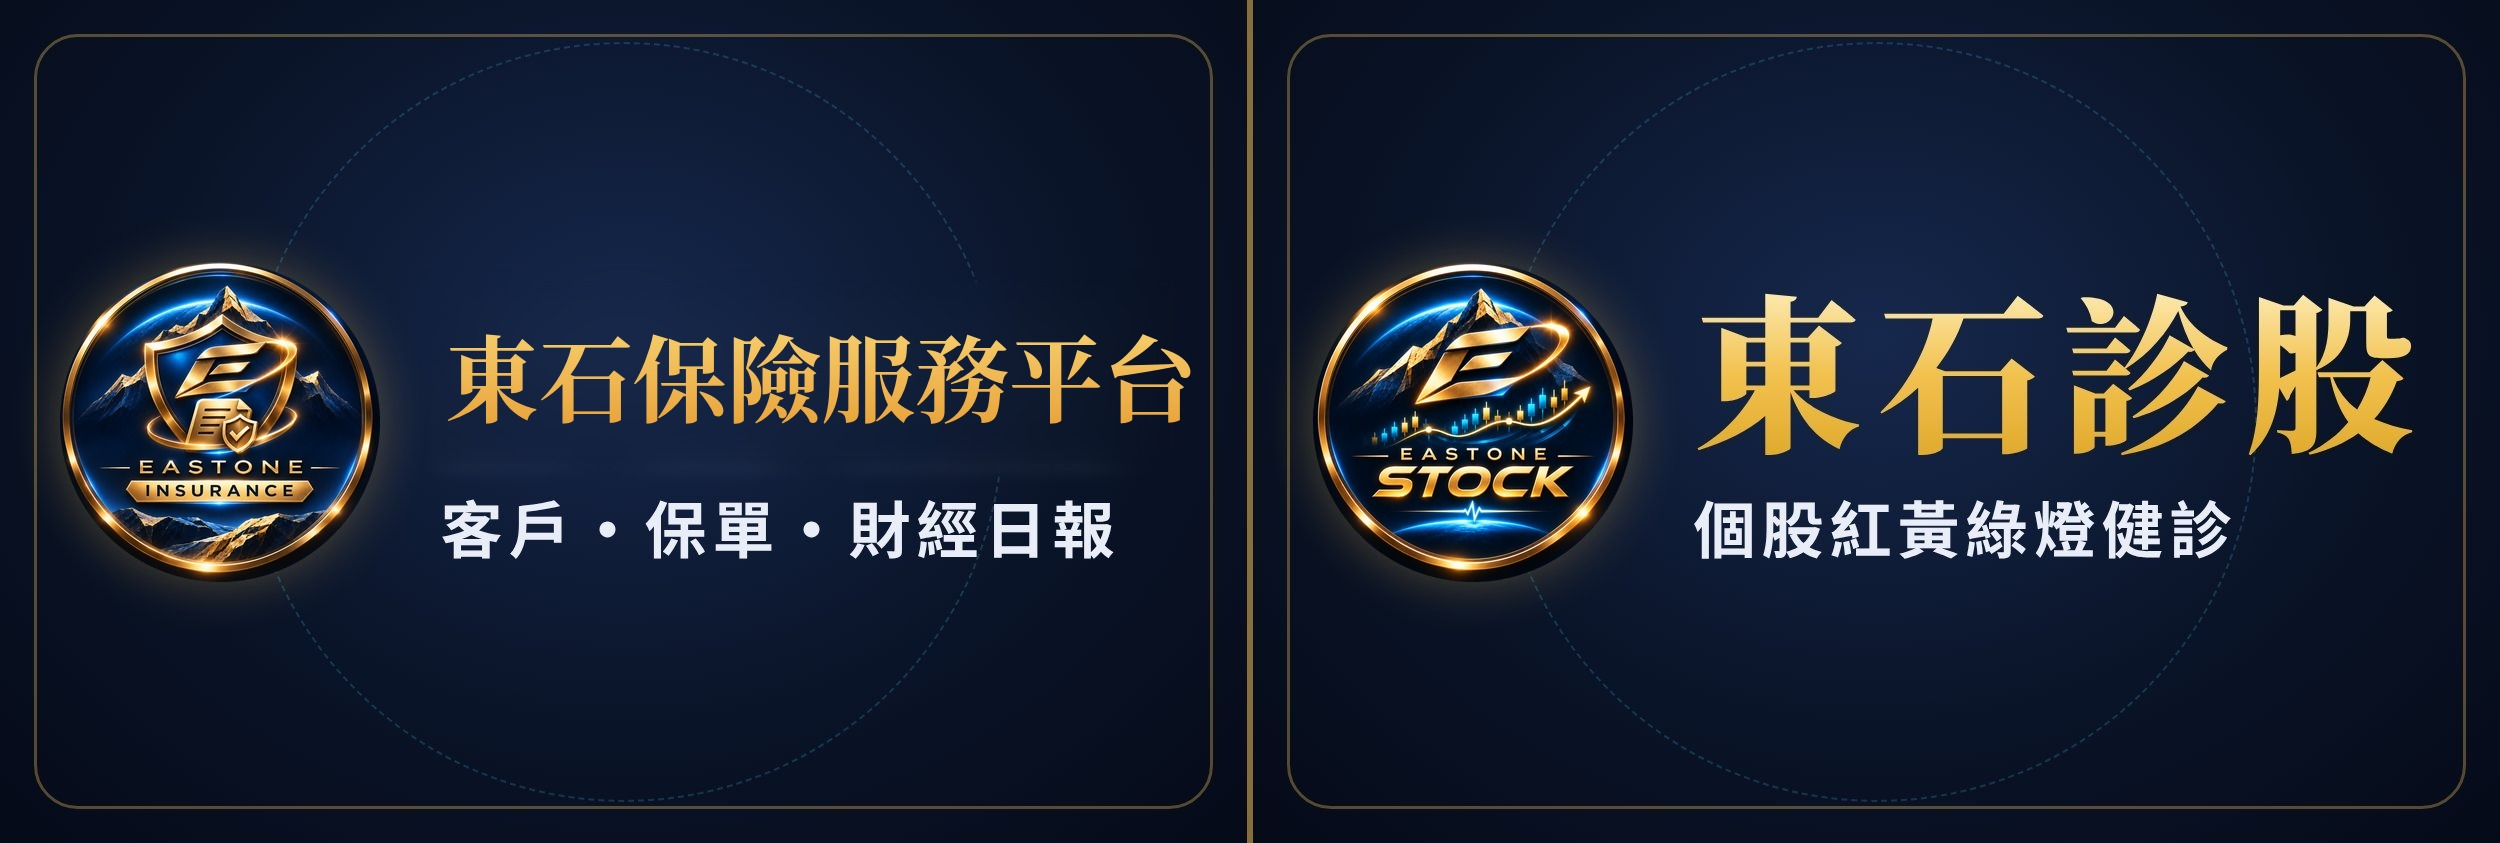
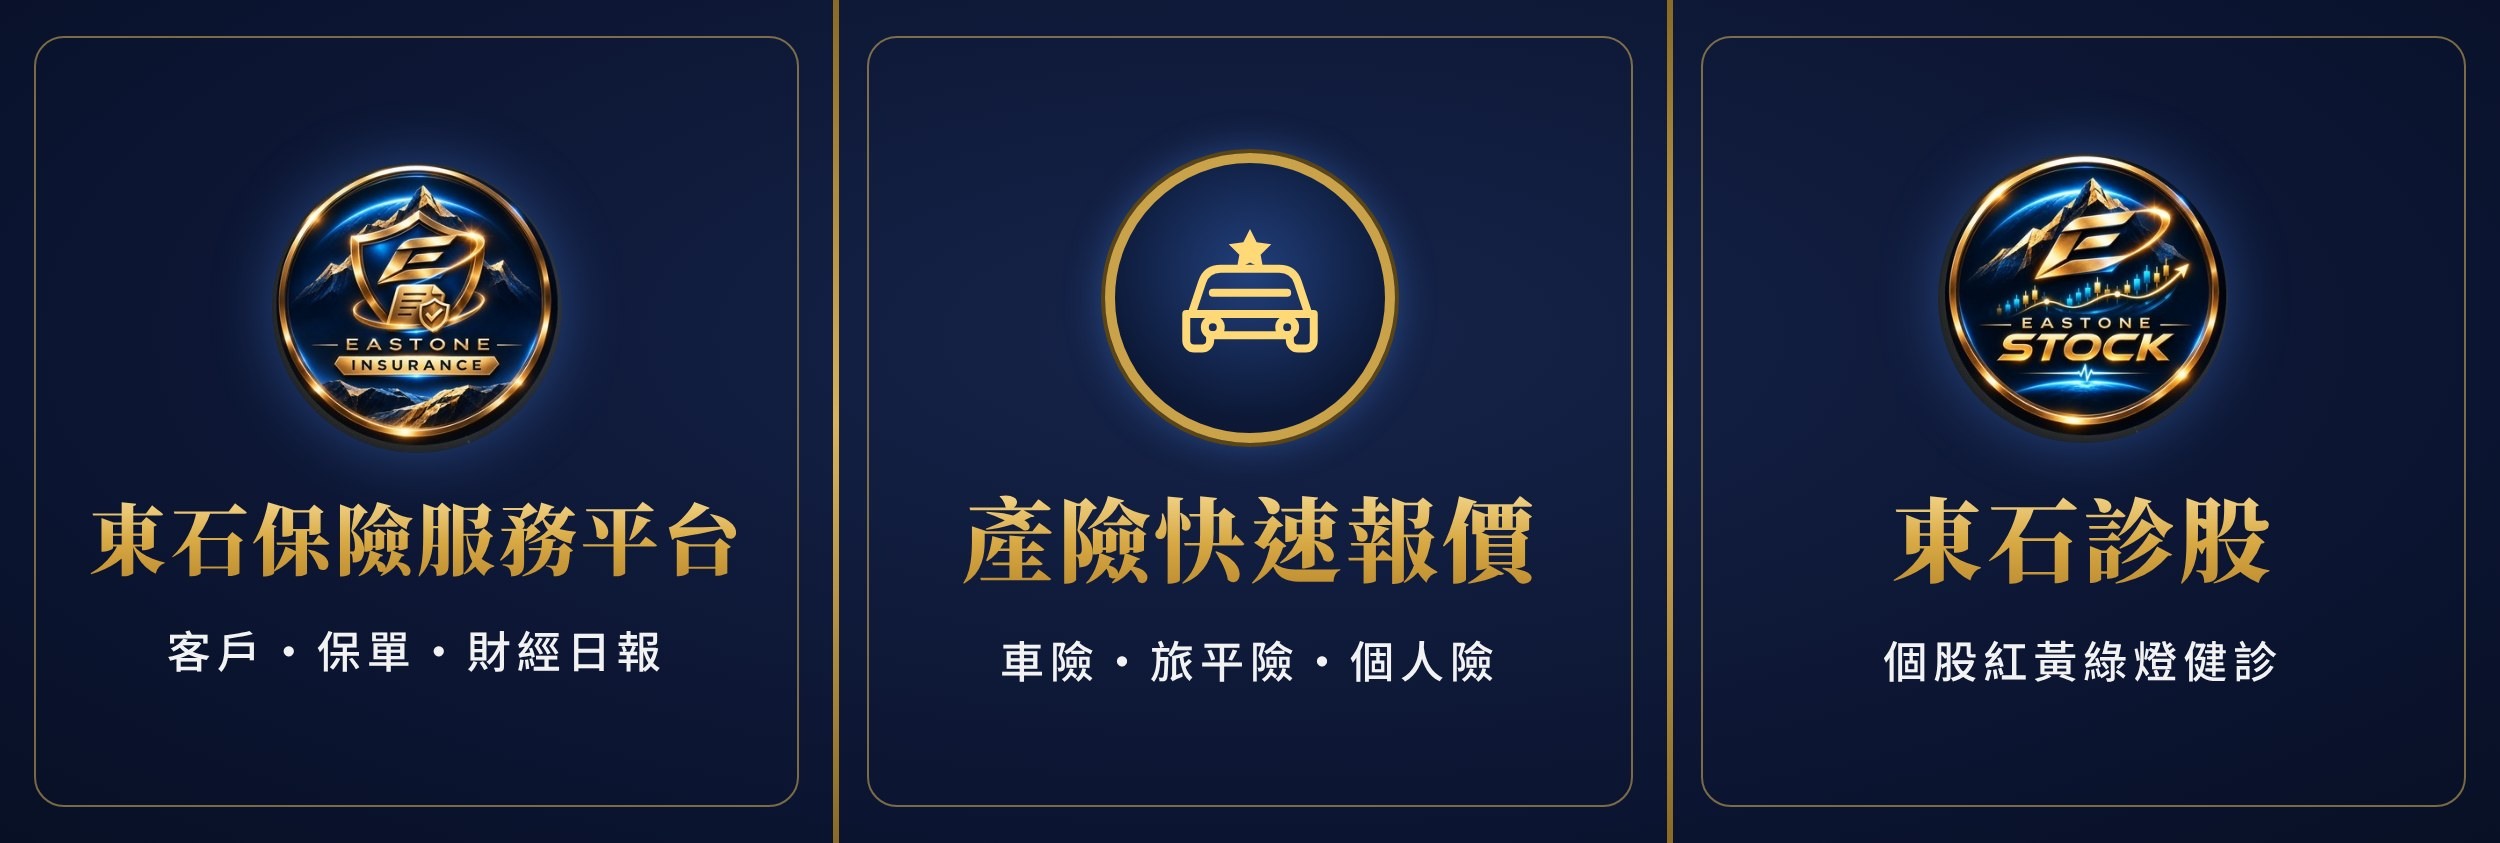
LINE 圖文選單新增產險快速報價；資產負債行情改接東石診股（基金淨值、FinMind 台美股）
Claude-Session: https://claude.ai/code/session_01KLCHjnaihTXGxAQ9Mh25mQ

diff --git a/clients/finance.js b/clients/finance.js
@@ -100,6 +100,14 @@ document.addEventListener('DOMContentLoaded', async () => {
       .filter((c) => !kw || `${c.name}${c.id}`.toLowerCase().includes(kw))
       .slice(0, 60).map((c) => ({ value: `${c.name}｜${c.id}`, label: c.name || c.id, sub: c.id })) }];
   };
+  PICK_SOURCES['fin-fund'] = (input) => {
+    if (!fundIndex) { loadFundIndex().then(() => input.dispatchEvent(new Event('input'))).catch(() => {}); return [{ label: '讀取東石診股基金清單中…', options: [] }]; }
+    const kw = input.value.split('｜')[0].trim().toLowerCase();
+    if (kw.length < 2) return [{ label: '請輸入至少 2 個字（名稱、ISIN 或代碼）', options: [] }];
+    return [{ label: `東石診股基金清單（淨值更新 ${fundIndex.updated}）`, layout: 'list', options: fundIndex.funds
+      .filter((f) => `${f.name}${f.isin}${f.id}${f.ticker}`.toLowerCase().includes(kw)).slice(0, 40)
+      .map((f) => ({ value: `${f.id}｜${f.name}`, label: f.name, sub: `${f.currency}・${f.date} 淨值 ${f.nav}${f.isin ? '・' + f.isin : ''}` })) }];
+  };
   $('fin-client').addEventListener('change', () => {
     const id = ($('fin-client').value.split('｜')[1] || '').trim();
     if (id) openClient(id);
@@ -156,30 +164,86 @@ async function refreshFx() {
   showFxStatus();
   if (data) recompute();
 }
+// ---------- 行情：接東石診股的資料來源 ----------
+// 基金：東石診股每天收集的投信投顧公會（境內）／集保結算所（境外）淨值 → data/funds/index.json
+// 股票：FinMind（台股 TaiwanStockPrice、美股 USStockPrice 收盤價），沿用東石診股存在本機的 FinMind 金鑰
+// 只送商品代號，不送客戶、數量或金額；失敗時保留原本估值
+const STOCK_SITE = 'https://eastonesd.github.io/eastone.stock/';
+const FINMIND = 'https://api.finmindtrade.com/api/v4/data';
+let fundIndex = null;
+async function loadFundIndex() {
+  if (fundIndex) return fundIndex;
+  const res = await fetch(STOCK_SITE + 'data/funds/index.json', { cache: 'no-cache' });
+  if (!res.ok) throw new Error('東石診股基金資料讀取失敗');
+  const j = await res.json();
+  const cols = j.columns;
+  fundIndex = { updated: j.updated, funds: j.funds.map((r) => Object.fromEntries(cols.map((c, i) => [c, r[i]]))) };
+  return fundIndex;
+}
+async function finmindClose(market, symbol) {
+  const dataset = market === 'US' ? 'USStockPrice' : 'TaiwanStockPrice';
+  const start = new Date(Date.now() - 14 * 864e5).toISOString().slice(0, 10);
+  const q = new URLSearchParams({ dataset, data_id: symbol, start_date: start });
+  let token = ''; try { token = localStorage.getItem('eastone.finmindToken') || ''; } catch { /* 無痕模式 */ }
+  if (token) q.set('token', token);
+  const res = await fetch(`${FINMIND}?${q}`);
+  const body = await res.json().catch(() => null);
+  if (!res.ok || !body || (body.status && body.status !== 200)) throw new Error((body && body.msg) || `FinMind ${res.status}`);
+  const rows = (body.data || []).filter((r) => Number(r.close ?? r.Close) > 0);
+  if (!rows.length) throw new Error('查無收盤價（請確認代號）');
+  const last = rows[rows.length - 1];
+  return { price: Number(last.close ?? last.Close), date: last.date, currency: market === 'US' ? 'USD' : 'TWD', source: `FinMind ${market === 'US' ? '美股' : '台股'}收盤價（東石診股）` };
+}
 async function refreshQuotes() {
   if (!data) { toast('請先選擇客戶'); return; }
-  const stocks = data.assets.filter((a) => a.category === 'stock' && a.status !== 'archived' && a.identifier && ['TWSE', 'TPEX', 'US'].includes(a.market));
-  if (!stocks.length) { toast('沒有可自動更新的股票（需填市場與代號）'); return; }
-  setStatus('更新股價中…');
-  try {
-    // 只送市場與代號，不送客戶、股數或金額
-    const out = await callFn('fin-quotes', { items: [...new Map(stocks.map((a) => [a.market + a.identifier, { market: a.market, symbol: a.identifier }])).values()] });
-    let saved = 0; const fails = [];
-    for (const a of stocks) {
-      const q = out.results.find((r) => r.market === a.market && r.symbol === a.identifier.toUpperCase());
-      if (!q || !q.ok) { fails.push(`${a.name || a.identifier}：${q ? q.reason : '無回應'}`); continue; }
-      if (q.currency !== a.currency) { fails.push(`${a.name}：報價幣別 ${q.currency} 與資產幣別不同，未更新`); continue; }
-      if (C.D(a.quantity) === null) { fails.push(`${a.name}：未填股數，無法計算市值`); continue; }
-      const exists = data.assetValues.some((v) => v.asset_id === a.id && v.as_of === q.date && !v.is_manual);
-      if (exists) continue;
-      const value = C.toNum(C.mul(C.D(a.quantity), C.D(q.price)));
-      await save('fin_asset_values', { asset_id: a.id, as_of: q.date, quantity: a.quantity, price: q.price, value, value_basis: 'market', source: `${q.source}（收盤價）`, is_manual: false });
-      saved++;
+  const live = data.assets.filter((a) => a.status !== 'archived' && a.identifier);
+  const stocks = live.filter((a) => a.category === 'stock' && ['TWSE', 'TPEX', 'US'].includes(a.market));
+  const funds = live.filter((a) => a.category === 'fund' && /^[TF]-/.test(a.identifier));
+  if (!stocks.length && !funds.length) { toast('沒有可自動更新的部位（股票需填市場與代號；基金需從東石診股清單選取）'); return; }
+  setStatus('更新行情中…');
+  let saved = 0; const fails = [];
+  const store = async (a, q) => {
+    if (q.currency !== a.currency) { fails.push(`${a.name}：報價幣別 ${q.currency} 與資產幣別 ${a.currency} 不同，未更新`); return; }
+    if (C.D(a.quantity) === null) { fails.push(`${a.name}：未填數量，無法計算市值`); return; }
+    if (data.assetValues.some((v) => v.asset_id === a.id && v.as_of === q.date && !v.is_manual)) return;
+    const value = C.toNum(C.mul(C.D(a.quantity), C.D(q.price)));
+    await save('fin_asset_values', { asset_id: a.id, as_of: q.date, quantity: a.quantity, price: q.price, value, value_basis: 'market', source: q.source, is_manual: false });
+    saved++;
+  };
+  // 基金
+  if (funds.length) {
+    try {
+      const idx = await loadFundIndex();
+      for (const a of funds) {
+        const f = idx.funds.find((x) => x.id === a.identifier);
+        if (!f || !(f.nav > 0)) { fails.push(`${a.name}：東石診股查無這檔基金的淨值`); continue; }
+        await store(a, { price: f.nav, date: f.date, currency: f.currency, source: `${f.kind === '境外' ? '集保結算所' : '投信投顧公會'}最新公告淨值（東石診股）` });
+      }
+    } catch (e) { fails.push('基金：' + e.message); }
+  }
+  // 股票（同一代號只查一次）
+  const cache = new Map();
+  for (const a of stocks) {
+    const mk = a.market === 'US' ? 'US' : 'TW';
+    const key = mk + a.identifier.toUpperCase();
+    try {
+      if (!cache.has(key)) cache.set(key, await finmindClose(mk, a.identifier.toUpperCase()));
+      await store(a, cache.get(key));
+    } catch (e) {
+      // 台股 FinMind 失敗時改用證交所／櫃買中心公開收盤價
+      if (mk === 'TW') {
+        try {
+          const out = await callFn('fin-quotes', { items: [{ market: a.market, symbol: a.identifier }] });
+          const q = out.results[0];
+          if (q && q.ok) { await store(a, { price: q.price, date: q.date, currency: q.currency, source: q.source }); continue; }
+        } catch { /* 兩個來源都失敗 */ }
+      }
+      fails.push(`${a.name || a.identifier}：${e.message}`);
     }
-    await reload();
-    toast(`已更新 ${saved} 筆收盤價` + (fails.length ? `；${fails.length} 筆未更新` : ''));
-    if (fails.length) alert('以下項目沒有自動更新（原本的估值保留不變）：\n\n' + fails.join('\n'));
-  } catch (e) { toast('股價更新失敗，保留原本估值：' + e.message); }
+  }
+  await reload();
+  toast(`已更新 ${saved} 筆行情` + (fails.length ? `；${fails.length} 筆未更新` : ''));
+  if (fails.length) alert('以下項目沒有自動更新（原本的估值保留不變）：\n\n' + fails.join('\n'));
   showFxStatus();
 }
 
@@ -415,7 +479,7 @@ function openModal(title, fields, values, submit, extraHtml = '', onDelete = nul
     let input;
     if (f.type === 'select') input = `<select name="${f.k}"${req}>${f.opts.map(([o, l]) => `<option value="${esc(o)}" ${String(val) === String(o) ? 'selected' : ''}>${esc(l)}</option>`).join('')}</select>`;
     else if (f.type === 'textarea') input = `<textarea name="${f.k}" rows="2">${esc(val)}</textarea>`;
-    else input = `<input type="${f.type || 'text'}" name="${f.k}" value="${esc(val)}"${req}${f.type === 'number' ? ' step="any" inputmode="decimal"' : ''}${f.ph ? ` placeholder="${esc(f.ph)}"` : ''}${f.list ? ` list="${f.list}"` : ''}>`;
+    else input = `<input type="${f.type || 'text'}" name="${f.k}" value="${esc(val)}"${req}${f.pick ? ` data-pick="${f.pick}" autocomplete="off"` : ''}${f.type === 'number' ? ' step="any" inputmode="decimal"' : ''}${f.ph ? ` placeholder="${esc(f.ph)}"` : ''}${f.list ? ` list="${f.list}"` : ''}>`;
     return `<label class="${f.wide ? 'wide' : ''}"${show}>${f.label}${f.req ? ' *' : ''}${input}${f.hint ? `<small>${f.hint}</small>` : ''}</label>`;
   };
   $('fin-form').innerHTML = `<datalist id="fin-ccy">${CCYS.map((c) => `<option value="${c}">`).join('')}</datalist>
@@ -485,7 +549,8 @@ function assetForm(a) {
     ccyField(),
     { k: 'policy_ref', label: '連結既有保單', type: 'select', opts: policyOptions(), when: 'category=savings_policy|investment_policy' },
     { k: 'market', label: '市場', type: 'select', opts: [['', '—'], ['TWSE', '台股上市'], ['TPEX', '台股上櫃'], ['US', '美股'], ['OTHER', '其他']], when: 'category=stock' },
-    { k: 'identifier', label: '代號／ISIN', ph: '股票代號、基金 ISIN 或供應商代碼', upper: true, when: 'category=stock|fund|mcn|other', hint: '基金請填完整級別的 ISIN，不能只用中文名稱比對' },
+    { k: 'identifier', label: '代號', ph: '股票代號（例 2330、AAPL）', upper: true, when: 'category=stock|mcn|other' },
+    { k: 'fund_pick', label: '基金（從東石診股清單選，含完整級別與幣別）', when: 'category=fund', pick: 'fin-fund', hint: '可輸入名稱、ISIN 或代碼搜尋；選定後會自動填幣別，淨值每天自動更新' },
     { k: 'meta_class', label: '基金級別', ph: '例：A 累積 美元', when: 'category=fund' },
     { k: 'share_pct', label: '持分（%）', type: 'number', def: 100, when: 'category=house', hint: '估值填整體市值時，系統只換算一次持分' },
     { k: 'meta_region', label: '地區描述', when: 'category=house' },
@@ -505,8 +570,20 @@ function assetForm(a) {
     { k: 'parent_id', label: '上層部位（例：投資型保單的底層基金）', type: 'select', opts: [['', '（無）'], ...assetOptions(a && a.id)], nullable: true },
     { k: 'include_in_total', label: '計入資產總額（銀行總覽、帳戶彙總這類只看不加的，請取消勾選）', type: 'check', def: true },
     { k: 'note', label: '備註', type: 'textarea', wide: true },
-  ], a ? { ...a, ...Object.fromEntries(Object.entries(a.meta || {}).map(([k, v]) => ['meta_' + k, v])) } : { include_in_total: true, purpose: 'none', restriction: 'none' }, async (row) => {
+  ], a ? { ...a, fund_pick: a.category === 'fund' && a.identifier ? `${a.identifier}｜${(a.meta || {}).fund_name || a.name}` : '', ...Object.fromEntries(Object.entries(a.meta || {}).map(([k, v]) => ['meta_' + k, v])) } : { include_in_total: true, purpose: 'none', restriction: 'none' }, async (row) => {
     validNumbers(row, ['share_pct', 'quantity', 'cost', 'liquidity_days', 'exit_cost']);
+    if (row.category === 'fund') {
+      const fid = (row.fund_pick || '').split('｜')[0].trim();
+      if (fid) {
+        const idx = await loadFundIndex().catch(() => null);
+        const f = idx && idx.funds.find((x) => x.id === fid);
+        if (!f) throw new Error('請從清單選取基金（找不到這個代碼）');
+        row.identifier = f.id; row.meta_fund_name = f.name; row.meta_isin = f.isin || ''; row.meta_company = f.company || '';
+        if (row.currency !== f.currency && !confirm(`這檔基金的計價幣別是 ${f.currency}，要把資產幣別改成 ${f.currency} 嗎？`)) throw new Error('幣別與基金不一致，未儲存');
+        row.currency = f.currency;
+      } else row.identifier = '';
+    }
+    delete row.fund_pick;
     if (!/^[A-Z]{3}$/.test(row.currency || '')) throw new Error('幣別請填三碼代號，例如 TWD、USD');
     const meta = {};
     Object.keys(row).filter((k) => k.startsWith('meta_')).forEach((k) => { if (row[k]) meta[k.slice(5)] = row[k]; delete row[k]; });

diff --git a/clients/finance.html b/clients/finance.html
@@ -13,7 +13,7 @@
 <link rel="stylesheet" href="../shared/auth.css?v=20261118-1">
 <link rel="stylesheet" href="picker.css?v=20261118-1">
 <link rel="stylesheet" href="style.css?v=20261118-1">
-<link rel="stylesheet" href="finance.css?v=20261118-1">
+<link rel="stylesheet" href="finance.css?v=20261118-2">
 </head>
 <body>
 
@@ -60,7 +60,7 @@
     <div class="fin-bar-actions">
       <span class="fin-status" id="fin-status"></span>
       <button type="button" class="btn-secondary fin-sm" id="fin-fx-btn">更新匯率</button>
-      <button type="button" class="btn-secondary fin-sm" id="fin-quote-btn">更新台股收盤價</button>
+      <button type="button" class="btn-secondary fin-sm" id="fin-quote-btn">更新行情</button>
       <button type="button" class="btn-primary fin-sm" id="fin-snap-btn">存成報表</button>
     </div>
   </section>
@@ -100,7 +100,7 @@
 <script src="data.js?v=20261118-1"></script>
 <script src="db.js?v=20261118-1"></script>
 <script src="picker.js?v=20261118-1"></script>
-<script src="finance-calc.js?v=20261118-1"></script>
-<script src="finance.js?v=20261118-1"></script>
+<script src="finance-calc.js?v=20261118-2"></script>
+<script src="finance.js?v=20261118-2"></script>
 </body>
 </html>

diff --git a/README.md b/README.md
@@ -77,7 +77,7 @@
 - 口徑重點：未知＝null 不是 0；匯率方向 1 外幣＝x 台幣，缺匯率不補 0／1、總額標不完整；估值取基準日（含）以前最新一筆，同日人工覆寫優先，不用未來價格回填；保單「扣貸後淨額」需同日同口徑核對才還原，否則待核對不納入；上層部位已計入時底層只展示；共同擔保的借款在可動用資金只扣一次；借款撥入／還本是融資流量，轉帳／換匯不算收入，分配款來源未知不視為收益。
 - 資料表 `fin_assets`、`fin_asset_values`、`fin_liabilities`、`fin_liability_balances`、`fin_collateral_links`、`fin_funding_links`、`fin_cash_events`、`fin_cash_schedules`、`fin_snapshots`（RLS：owner＝本人；複合外鍵綁 `clients(owner,id)`，客戶轉移帳號時一起跟過去，刪客戶時一起刪；連結不能跨客戶）；`fin_fx_quotes`（自動匯率 owner 為空，大家可讀；手動匯率屬於個人）、`fin_market_quotes`（公開收盤價，不含客戶資料）。
 - 報表 `finance-report.html?snap=`：只讀凍結快照（`fin_snapshots`，建立後不能修改），A4 列印／另存 PDF。
-- 自動資料：Edge Function `fin-fx`（臺灣銀行牌告即期買賣中價，週一到週五 16:35 排程 `fin-fx-daily`，頁面也可手動更新，30 分鐘內不重抓）；`fin-quotes`（台股上市＝證交所 OpenAPI、上櫃＝櫃買中心 OpenAPI 的收盤價；美股尚未選定供應商、基金淨值尚無合法免費來源 → 手動估值）。只送商品代號，不送客戶資料。
+- 自動資料：匯率＝Edge Function `fin-fx`（臺灣銀行牌告即期買賣中價，週一到週五 16:35 排程 `fin-fx-daily`，頁面也可手動更新，30 分鐘內不重抓）。「更新行情」接**東石診股**（`eastonesd/eastone.stock`）：基金＝東石診股每天收集的投信投顧公會／集保結算所淨值（`data/funds/index.json`，建檔時從清單選基金，含級別與幣別）；台股、美股＝FinMind 收盤價（沿用東石診股存在同一瀏覽器的 FinMind 金鑰）；台股 FinMind 失敗時改用 `fin-quotes`（證交所／櫃買中心）。只送商品代號，不送客戶資料。
 - MCN：通用建檔＋「商品結構待確認」；專屬規則待取得說明書後再做。
 
 ## 三、產險管理（`policies/`）
@@ -112,7 +112,10 @@
 - **截圖**：`.github/workflows/daily-snapshot.yml` 週一到週五 08:05／08:20／08:35／08:50 執行 `tools/snapshot.mjs`，把 `market/` 拍成圖放到 `daily-report` 分支（只留 7 天）；當天已拍好就跳過。Runner 固定 `ubuntu-24.04`（26.04 的 Playwright 不支援）。
 - **推播**：09:00 由 `expiry-reminders` 發送日報與保單到期提醒，週六、日不發。
 - **推播管道**（`line_links.report_channel`）：dkyp2377 → Discord；tpbu → LINE；Minnie → 停發日報。保單到期提醒一律走 LINE，每人可選提前 30／60／90 天（`line_links.remind_days`），到期前 10 天另發一次「最後提醒」（`due_reminders_final`，`reminder_log.kind = '10d'`）。
-- **LINE 官方帳號**：只有傳「綁定」（或說明／HELP）才回罐頭訊息；圖文選單由 `setup-richmenu` 上傳（body 可帶 `{"ref": commit SHA}` 避開快取）。
+- **LINE 官方帳號**：只有傳「綁定」（或說明／HELP）才回罐頭訊息；圖文選單（左：東石保險服務平台、中：產險快速報價、右：東石診股，圖 `tools/line-richmenu.jpg`）由 `setup-richmenu` 上傳（body 可帶 `{"ref": commit SHA}` 避開快取）。
+- **產險快速報價**（`line-webhook` 的 `quote.ts`）：選單按鈕或傳「產險快速報價」開始 → 選業務帳戶（tpbu8544／dkyp2377／minnie0707）→ 車險／旅平險／個人險 → 車險：機車／汽車 → 強制／任意／強制＋任意 → 上傳駕照、行照 → 電話 → 電子郵件（選填）。旅平險、個人險目前只留電話與信箱。傳「取消」可中止，閒置 30 分鐘自動取消。
+  - 進度存 `line_quote_sessions`；送出寫入 `line_quote_requests`（業務員只讀得到自己的）；證件照片存私有空間 `quote-docs`（路徑第一層＝業務員 id）。
+  - 送出後推播通知該帳戶綁定的 LINE（附 7 天有效的照片連結）；該帳戶沒有帳號或沒綁 LINE 時轉給 dkyp2377。
 
 ### Edge Functions
 
